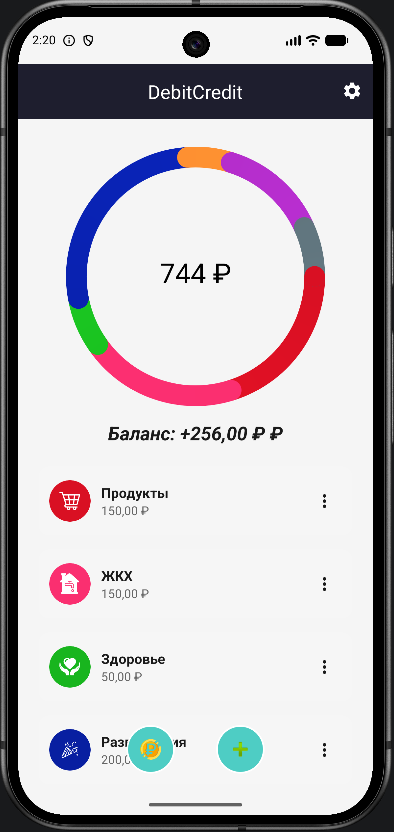
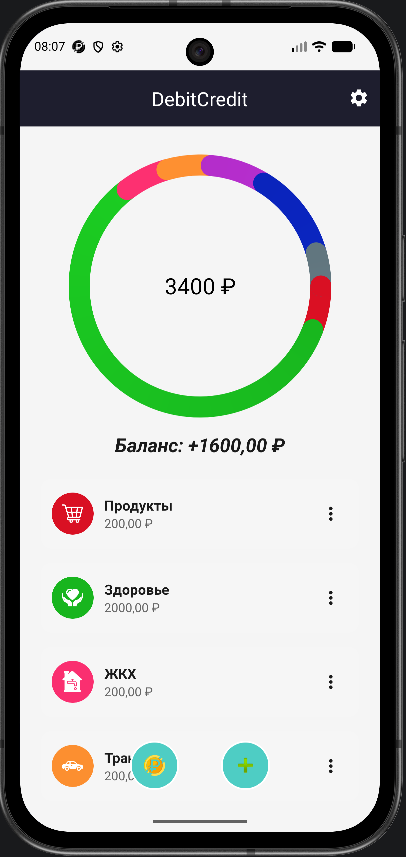
modified libs, code

diff --git a/app/src/main/java/ru/github/debitcredit/presentation/ui/edit/CategoryEditFragment.kt b/app/src/main/java/ru/github/debitcredit/presentation/ui/edit/CategoryEditFragment.kt
@@ -4,6 +4,7 @@ import android.app.Activity
 import android.graphics.Color
 import android.graphics.drawable.GradientDrawable
 import android.os.Bundle
+import android.util.Log
 import android.view.LayoutInflater
 import android.view.View
 import android.view.ViewGroup
@@ -76,12 +77,26 @@ class CategoryEditFragment : Fragment() {
         setupTextWatcher()
         setupClickListeners(view)
         setupKeyboardListeners()
+
+        // Показываем клавиатуру при входе во фрагмент
+        showKeyboard()
     }
 
     private fun setupViews(view: View) {
         amountEditText = view.findViewById(R.id.amountEditText)
         amountEditText.setText("")
         amountEditText.hint = getString(R.string.add_amount)
+
+        // Обработка клика по полю ввода - переключаем клавиатуру
+        amountEditText.setOnClickListener {
+            // Если клавиатура скрыта - показываем, если показана - скрываем
+            val imm = requireContext().getSystemService(Activity.INPUT_METHOD_SERVICE) as InputMethodManager
+            if (imm.isActive) {
+                hideKeyboard()
+            } else {
+                showKeyboard()
+            }
+        }
 
         val iconContainer = view.findViewById<View>(R.id.iconContainer)
         val categoryIcon = view.findViewById<ImageView>(R.id.categoryIcon)
@@ -124,18 +139,26 @@ class CategoryEditFragment : Fragment() {
     }
 
     private fun setupKeyboardListeners() {
+        // Обработка нажатия Done на клавиатуре
         amountEditText.setOnEditorActionListener { _, actionId, _ ->
             if (actionId == EditorInfo.IME_ACTION_DONE) {
                 hideKeyboard()
                 true
             } else false
         }
-        amountEditText.requestFocus()
-        showKeyboard()
+
+        // Следим за фокусом
+        amountEditText.setOnFocusChangeListener { _, hasFocus ->
+            if (hasFocus) {
+                // Если поле получило фокус, показываем клавиатуру
+                showKeyboard()
+            }
+        }
     }
 
     private fun setupClickListeners(view: View) {
         view.findViewById<ImageButton>(R.id.cancelButton).setOnClickListener {
+            hideKeyboard()
             findNavController().popBackStack()
         }
 
@@ -160,12 +183,12 @@ class CategoryEditFragment : Fragment() {
                             R.string.amount_format,
                             newAmount
                         )
-                    } ₽",
+                    }",
                     Toast.LENGTH_SHORT
                 ).show()
+                hideKeyboard()
                 findNavController().popBackStack()
             } else {
-                // Передаем контекст через ViewModel
                 viewModel.addTransaction(categoryKey, newAmount, "expense")
 
                 val updatedAmount = originalAmount + newAmount
@@ -182,31 +205,40 @@ class CategoryEditFragment : Fragment() {
                             R.string.amount_format,
                             newAmount
                         )
-                    } ₽\n${getString(R.string.new_amount)}: ${
+                    } \n${getString(R.string.new_amount)}: ${
                         context?.getString(
                             R.string.amount_format,
                             updatedAmount
                         )
-                    } ₽",
+                    }",
                     Toast.LENGTH_LONG
                 ).show()
+                hideKeyboard()
                 findNavController().popBackStack()
             }
         }
     }
 
     private fun showKeyboard() {
-        val imm =
-            requireContext().getSystemService(Activity.INPUT_METHOD_SERVICE) as InputMethodManager
-        amountEditText.post {
-            imm.showSoftInput(amountEditText, 0)
+        try {
+            val imm = requireContext().getSystemService(Activity.INPUT_METHOD_SERVICE) as InputMethodManager
+            amountEditText.post {
+                amountEditText.requestFocus()
+                imm.showSoftInput(amountEditText, InputMethodManager.SHOW_IMPLICIT)
+            }
+        } catch (e: Exception) {
+            Log.e("CategoryEditFragment", "Error showing keyboard", e)
         }
     }
 
     private fun hideKeyboard() {
-        val imm =
-            requireContext().getSystemService(Activity.INPUT_METHOD_SERVICE) as InputMethodManager
-        imm.hideSoftInputFromWindow(amountEditText.windowToken, 0)
+        try {
+            val imm = requireContext().getSystemService(Activity.INPUT_METHOD_SERVICE) as InputMethodManager
+            imm.hideSoftInputFromWindow(amountEditText.windowToken, 0)
+            amountEditText.clearFocus()
+        } catch (e: Exception) {
+            Log.e("CategoryEditFragment", "Error hiding keyboard", e)
+        }
     }
 
     override fun onDestroyView() {

diff --git a/app/src/main/java/ru/github/debitcredit/services/NotificationScheduler.kt b/app/src/main/java/ru/github/debitcredit/services/NotificationScheduler.kt
@@ -1,7 +1,6 @@
 package ru.github.debitcredit.services
 
 import android.content.Context
-import android.os.Build
 import android.util.Log
 import androidx.work.*
 import ru.github.debitcredit.workers.DailyNotificationWorker
@@ -15,39 +14,32 @@ object NotificationScheduler {
 
     fun scheduleDailyNotification(context: Context) {
         try {
-            // Проверяем, запланирована ли уже работа
             val workManager = WorkManager.getInstance(context)
-            val workInfos = workManager.getWorkInfosForUniqueWork(WORK_NAME).get()
 
+            // Проверяем, запланирована ли уже работа
+            val workInfos = workManager.getWorkInfosForUniqueWork(WORK_NAME).get()
             if (workInfos.isNotEmpty() && workInfos[0].state == WorkInfo.State.ENQUEUED) {
+                Log.d(TAG, "Work already scheduled")
                 return
             }
 
             // Вычисляем задержку до 8:00
             val delay = calculateDelayTo8AM()
+            Log.d(TAG, "Delay to 8:00 AM: ${delay / 1000 / 60} minutes")
 
-            // Создаем PeriodicWorkRequest для ежедневного запуска
+            // Создаем constraints
             val constraints = Constraints.Builder()
                 .setRequiredNetworkType(NetworkType.NOT_REQUIRED)
                 .setRequiresDeviceIdle(false)
                 .setRequiresBatteryNotLow(false)
                 .build()
 
-            // Для Android 12+ нужно использовать setExpedited для точного времени
-            val workRequest = if (Build.VERSION.SDK_INT >= Build.VERSION_CODES.S) {
-                OneTimeWorkRequestBuilder<DailyNotificationWorker>()
-                    .setInitialDelay(delay, TimeUnit.MILLISECONDS)
-                    .setConstraints(constraints)
-                    .addTag(WORK_NAME)
-                    .setExpedited(OutOfQuotaPolicy.RUN_AS_NON_EXPEDITED_WORK_REQUEST)
-                    .build()
-            } else {
-                OneTimeWorkRequestBuilder<DailyNotificationWorker>()
-                    .setInitialDelay(delay, TimeUnit.MILLISECONDS)
-                    .setConstraints(constraints)
-                    .addTag(WORK_NAME)
-                    .build()
-            }
+            // Создаем WorkRequest - БЕЗ setExpedited для отложенных задач
+            val workRequest = OneTimeWorkRequestBuilder<DailyNotificationWorker>()
+                .setInitialDelay(delay, TimeUnit.MILLISECONDS)
+                .setConstraints(constraints)
+                .addTag(WORK_NAME)
+                .build()
 
             // Запускаем работу
             workManager.enqueueUniqueWork(
@@ -55,6 +47,9 @@ object NotificationScheduler {
                 ExistingWorkPolicy.REPLACE,
                 workRequest
             )
+
+            Log.d(TAG, "Daily notification scheduled for 8:00 AM")
+
         } catch (e: Exception) {
             Log.e(TAG, "Error scheduling notification", e)
         }
@@ -75,7 +70,11 @@ object NotificationScheduler {
             calendar.add(Calendar.DAY_OF_MONTH, 1)
         }
 
-        val delay = calendar.timeInMillis - now
-        return delay
+        return calendar.timeInMillis - now
+    }
+
+    fun cancelNotification(context: Context) {
+        WorkManager.getInstance(context).cancelUniqueWork(WORK_NAME)
+        Log.d(TAG, "Notification cancelled")
     }
 }

diff --git a/app/src/main/java/ru/github/debitcredit/DebitCreditApplication.kt b/app/src/main/java/ru/github/debitcredit/DebitCreditApplication.kt
@@ -20,14 +20,11 @@ class DebitCreditApplication : Application() {
         super.onCreate()
 
         try {
-            // Инициализируем Firebase
             FirebaseApp.initializeApp(this)
-            Log.d("Application", "Firebase initialized")
 
-            // Настраиваем Firestore для офлайн-режима
             setupFirestore()
 
-            // Запускаем ежедневное уведомление в 8:00
+            // Запускаем ежедневное уведомление через WorkManager
             NotificationScheduler.scheduleDailyNotification(this)
 
             // Проверяем обновления в фоновом потоке
@@ -39,9 +36,8 @@ class DebitCreditApplication : Application() {
                 }
             }
 
-            // Показываем благодарственное уведомление (с задержкой)
             CoroutineScope(Dispatchers.IO).launch {
-                kotlinx.coroutines.delay(5000) // Задержка 3 секунды
+                kotlinx.coroutines.delay(5000)
                 NotificationHelper.showAppreciationNotification(this@DebitCreditApplication)
             }
 
@@ -55,11 +51,10 @@ class DebitCreditApplication : Application() {
         try {
             val firestore = FirebaseFirestore.getInstance()
             val settings = FirebaseFirestoreSettings.Builder()
-                .setPersistenceEnabled(true)  // Включаем офлайн-режим
+                .setPersistenceEnabled(true)
                 .setCacheSizeBytes(FirebaseFirestoreSettings.CACHE_SIZE_UNLIMITED)
                 .build()
             firestore.firestoreSettings = settings
-            Log.d("Application", "Firestore configured with offline persistence")
         } catch (e: Exception) {
             Log.e("Application", "Error configuring Firestore", e)
         }

diff --git a/app/src/main/java/ru/github/debitcredit/presentation/ui/main/MainFragment.kt b/app/src/main/java/ru/github/debitcredit/presentation/ui/main/MainFragment.kt
@@ -134,9 +134,9 @@ class MainFragment : Fragment() {
 
     private fun updateBalance(balance: Float) {
         val balanceText = if (balance >= 0) {
-            "${getString(R.string.balance)}: +${getString(R.string.amount_format, balance)} ₽"
+            "${getString(R.string.balance)}: +${getString(R.string.amount_format, balance)}"
         } else {
-            "${getString(R.string.balance)}: ${getString(R.string.amount_format, balance)} ₽"
+            "${getString(R.string.balance)}: ${getString(R.string.amount_format, balance)}"
         }
         balanceTextView.text = balanceText
     }
